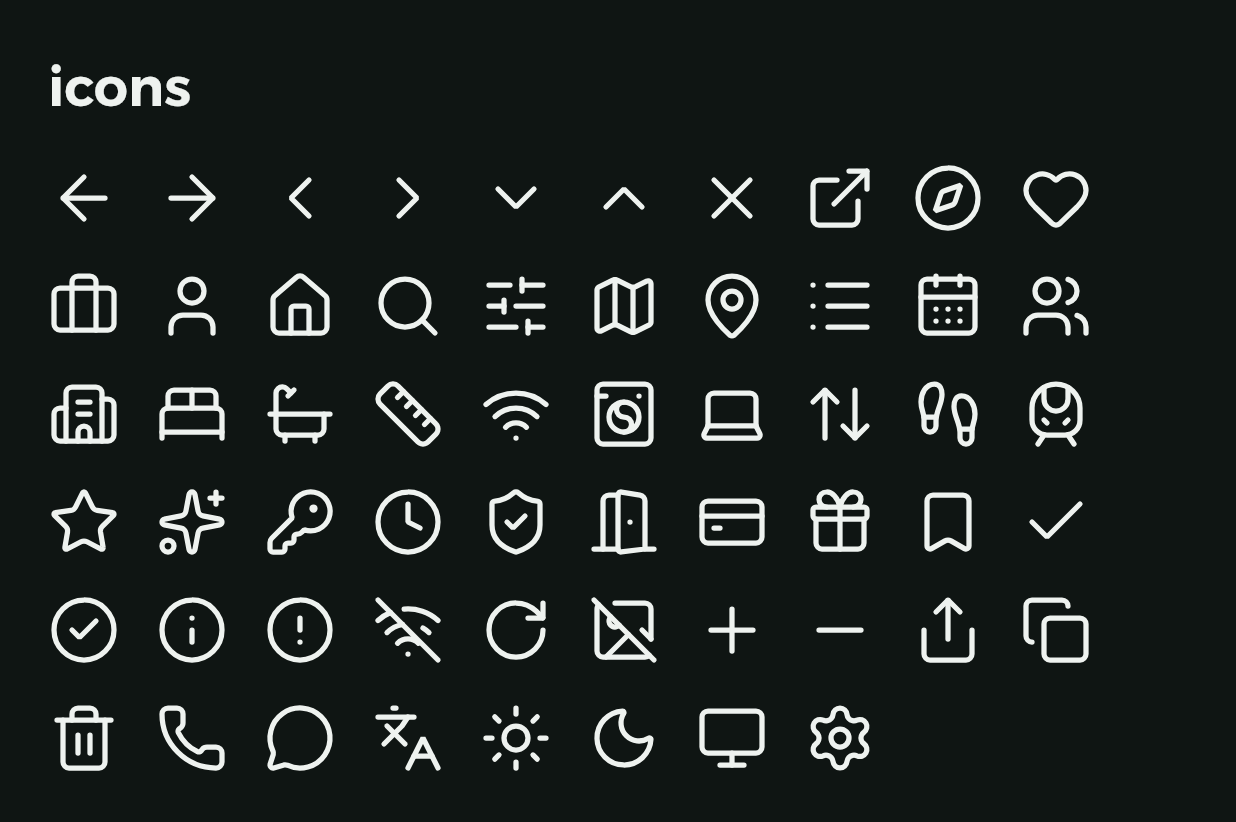
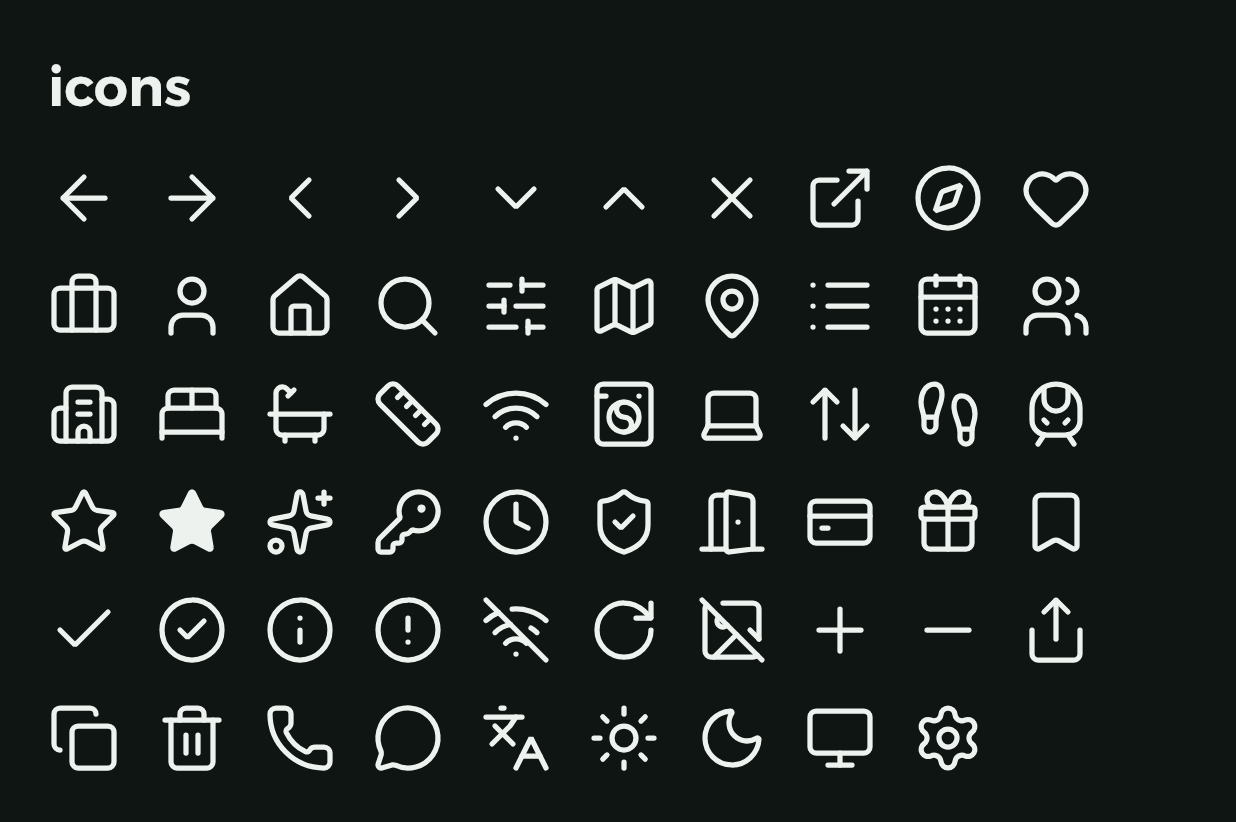
feat(designsystem): add SojournRating
Star, score and review count (Rating card): ★ 4.8 (32). Renders nothing for a missing rating or
fewer than three reviews (N-04); read aloud as one phrase, "Rated 4.8 out of 5, 32 reviews", from a
plural resource with all six Arabic forms. Score and count come from SojournFormatter.rating/count.

Also:
- SojournIcon.StarFilled; lucide_to_vector.py generates filled variants; icon sheet baselines updated
- SojournIcon.all is lazy: an eager list built during class init held null for whichever icon was
  touched first (the Rating tests ran first and crashed the icon sheet)
- iOS screenshots compare with a 0.5 % tolerance: a new local simulator runtime changed text
  anti-aliasing on 0.07-0.15 % of pixels; Android stays exact (ADR 0010 note)
- detekt FunctionNaming exempts the KMP test source sets (androidHostTest, androidDeviceTest)
- SojournRatingBehaviourTest: hidden states and spoken label on the semantics tree
- Screenshot cases in commonTest: 24 Android + 12 iOS new baselines, all reviewed

diff --git a/core/designsystem/src/commonMain/kotlin/com/abulubad/sojourn/core/designsystem/icon/SojournIcon.kt b/core/designsystem/src/commonMain/kotlin/com/abulubad/sojourn/core/designsystem/icon/SojournIcon.kt
@@ -60,6 +60,7 @@ import com.abulubad.sojourn.core.designsystem.resources.ic_shield_check
 import com.abulubad.sojourn.core.designsystem.resources.ic_sliders_horizontal
 import com.abulubad.sojourn.core.designsystem.resources.ic_sparkles
 import com.abulubad.sojourn.core.designsystem.resources.ic_star
+import com.abulubad.sojourn.core.designsystem.resources.ic_star_filled
 import com.abulubad.sojourn.core.designsystem.resources.ic_sun
 import com.abulubad.sojourn.core.designsystem.resources.ic_train_front
 import com.abulubad.sojourn.core.designsystem.resources.ic_trash_2
@@ -117,6 +118,9 @@ sealed class SojournIcon(internal val resource: DrawableResource, val autoMirror
     data object Walk : SojournIcon(Res.drawable.ic_footprints)
     data object Transit : SojournIcon(Res.drawable.ic_train_front)
     data object Star : SojournIcon(Res.drawable.ic_star)
+
+    /** The rating star (Rating card): filled, tinted `accentInk`. */
+    data object StarFilled : SojournIcon(Res.drawable.ic_star_filled)
     data object Sparkles : SojournIcon(Res.drawable.ic_sparkles)
 
     // Policies and booking
@@ -152,17 +156,22 @@ sealed class SojournIcon(internal val resource: DrawableResource, val autoMirror
     data object Settings : SojournIcon(Res.drawable.ic_settings)
 
     companion object {
-        /** Every icon, for the showcase sheet and tests. */
-        val all: kotlin.collections.List<SojournIcon> = listOf(
-            Back, Forward, ChevronStart, ChevronEnd, ChevronDown, ChevronUp, Close, ExternalLink,
-            Explore, Saved, Bookings, Profile, Home,
-            Search, Filters, Map, MapPin, List, Calendar, Guests, City,
-            Bed, Bath, Size, Wifi, Washer, Workspace, Lift, Walk, Transit, Star, Sparkles,
-            Key, Clock, Deposit, DoorOpen, Payment, Rewards, Bookmark,
-            Check, CheckCircle, Info, Alert, Offline, Retry, ImageFailed,
-            Plus, Minus, Share, Copy, Delete, Phone, Message,
-            Language, ThemeLight, ThemeDark, ThemeSystem, Settings,
-        )
+        /**
+         * Every icon, for the showcase sheet and tests. Lazy on purpose: the nested objects extend this class, so an
+         * eager list built during class initialisation would hold `null` for whichever icon was touched first.
+         */
+        val all: kotlin.collections.List<SojournIcon> by lazy {
+            listOf(
+                Back, Forward, ChevronStart, ChevronEnd, ChevronDown, ChevronUp, Close, ExternalLink,
+                Explore, Saved, Bookings, Profile, Home,
+                Search, Filters, Map, MapPin, List, Calendar, Guests, City,
+                Bed, Bath, Size, Wifi, Washer, Workspace, Lift, Walk, Transit, Star, StarFilled, Sparkles,
+                Key, Clock, Deposit, DoorOpen, Payment, Rewards, Bookmark,
+                Check, CheckCircle, Info, Alert, Offline, Retry, ImageFailed,
+                Plus, Minus, Share, Copy, Delete, Phone, Message,
+                Language, ThemeLight, ThemeDark, ThemeSystem, Settings,
+            )
+        }
     }
 }
 

diff --git a/core/designsystem/src/commonMain/kotlin/com/abulubad/sojourn/core/designsystem/components/rating/SojournRating.kt b/core/designsystem/src/commonMain/kotlin/com/abulubad/sojourn/core/designsystem/components/rating/SojournRating.kt
@@ -1,0 +1,66 @@
+package com.abulubad.sojourn.core.designsystem.components.rating
+
+import androidx.compose.foundation.layout.Arrangement
+import androidx.compose.foundation.layout.Row
+import androidx.compose.foundation.text.BasicText
+import androidx.compose.runtime.Composable
+import androidx.compose.ui.Alignment
+import androidx.compose.ui.Modifier
+import androidx.compose.ui.semantics.clearAndSetSemantics
+import androidx.compose.ui.semantics.contentDescription
+import androidx.compose.ui.text.font.FontWeight
+import com.abulubad.sojourn.core.designsystem.icon.SojournIcon
+import com.abulubad.sojourn.core.designsystem.theme.SojournTheme
+import com.abulubad.sojourn.core.designsystem.tokens.SojournSpacing
+import com.abulubad.sojourn.core.localization.rememberSojournFormatter
+import com.abulubad.sojourn.core.localization.resources.Res
+import com.abulubad.sojourn.core.localization.resources.rating_count
+import com.abulubad.sojourn.core.localization.resources.rating_spoken
+import com.abulubad.sojourn.core.model.Rating
+import org.jetbrains.compose.resources.pluralStringResource
+import org.jetbrains.compose.resources.stringResource
+
+/**
+ * Star, score and review count (Rating card): ★ 4.8 (32).
+ *
+ * Renders **nothing** when [rating] is null or has fewer than three reviews (N-04): there is no empty, zero or "new"
+ * rating. Screen readers hear one phrase, "Rated 4.8 out of 5, 32 reviews". The score and count come from
+ * `SojournFormatter`, with Western digits in bidi isolates. [showCount] = false drops the count where the card is
+ * compact.
+ *
+ * ```
+ * SojournRating(stay.rating)
+ * ```
+ */
+@Composable
+fun SojournRating(
+    rating: Rating?,
+    modifier: Modifier = Modifier,
+    showCount: Boolean = true,
+) {
+    if (rating == null || !SojournRatingDefaults.isShown(rating)) return
+    val formatter = rememberSojournFormatter()
+    val score = formatter.rating(rating.score)
+    val count = formatter.count(rating.count)
+    val spoken = pluralStringResource(Res.plurals.rating_spoken, rating.count, score, count)
+    val textStyle = SojournTheme.type.bodySm
+    Row(
+        modifier = modifier.clearAndSetSemantics { contentDescription = spoken },
+        horizontalArrangement = Arrangement.spacedBy(SojournSpacing.space1),
+        verticalAlignment = Alignment.CenterVertically,
+    ) {
+        SojournIcon(
+            icon = SojournIcon.StarFilled,
+            contentDescription = null,
+            tint = SojournTheme.colors.accentInk,
+            size = SojournRatingDefaults.StarSize,
+        )
+        BasicText(score, style = textStyle.copy(color = SojournTheme.colors.ink, fontWeight = FontWeight.SemiBold))
+        if (showCount) {
+            BasicText(
+                stringResource(Res.string.rating_count, count),
+                style = textStyle.copy(color = SojournTheme.colors.inkMuted),
+            )
+        }
+    }
+}

diff --git a/core/designsystem/src/androidHostTest/kotlin/com/abulubad/sojourn/core/designsystem/components/rating/SojournRatingBehaviourTest.kt b/core/designsystem/src/androidHostTest/kotlin/com/abulubad/sojourn/core/designsystem/components/rating/SojournRatingBehaviourTest.kt
@@ -1,0 +1,61 @@
+package com.abulubad.sojourn.core.designsystem.components.rating
+
+import androidx.compose.foundation.layout.Box
+import androidx.compose.ui.Modifier
+import androidx.compose.ui.platform.testTag
+import androidx.compose.ui.test.assertContentDescriptionEquals
+import androidx.compose.ui.test.junit4.createComposeRule
+import androidx.compose.ui.test.onChildren
+import androidx.compose.ui.test.onNodeWithTag
+import com.abulubad.sojourn.core.designsystem.preview.SojournPreview
+import com.abulubad.sojourn.core.designsystem.preview.SojournVariants
+import com.abulubad.sojourn.core.localization.SojournFormatter.Companion.isolate
+import com.abulubad.sojourn.core.model.Rating
+import org.junit.Rule
+import org.junit.Test
+import org.junit.runner.RunWith
+import org.robolectric.RobolectricTestRunner
+import org.robolectric.annotation.Config
+
+/** N-04 and the spoken label, checked on the semantics tree rather than pixels. */
+@RunWith(RobolectricTestRunner::class)
+@Config(sdk = [36])
+class SojournRatingBehaviourTest {
+
+    @get:Rule
+    val composeRule = createComposeRule()
+
+    private fun render(rating: Rating?) = composeRule.setContent {
+        SojournPreview(SojournVariants.EnLight) {
+            Box(Modifier.testTag(HOST)) { SojournRating(rating) }
+        }
+    }
+
+    @Test
+    fun `fewer than three reviews renders nothing`() {
+        render(SojournRatingSamples.tooFewReviews)
+        composeRule.onNodeWithTag(HOST).onChildren().assertCountEquals(0)
+    }
+
+    @Test
+    fun `a missing rating renders nothing`() {
+        render(null)
+        composeRule.onNodeWithTag(HOST).onChildren().assertCountEquals(0)
+    }
+
+    @Test
+    fun `screen readers hear one phrase with score and count`() {
+        render(SojournRatingSamples.typical)
+        composeRule.onNodeWithTag(HOST).onChildren()[0]
+            .assertContentDescriptionEquals("Rated ${isolate("4.8")} out of 5, ${isolate("32")} reviews")
+    }
+
+    private companion object {
+        const val HOST = "host"
+    }
+}
+
+private fun androidx.compose.ui.test.SemanticsNodeInteractionCollection.assertCountEquals(expected: Int) {
+    val actual = fetchSemanticsNodes().size
+    check(actual == expected) { "Expected $expected rating nodes, found $actual" }
+}

diff --git a/core/testing/src/iosMain/kotlin/com/abulubad/sojourn/core/testing/IosSnapshots.kt b/core/testing/src/iosMain/kotlin/com/abulubad/sojourn/core/testing/IosSnapshots.kt
@@ -11,6 +11,7 @@ import androidx.compose.ui.unit.Density
 import com.abulubad.sojourn.core.designsystem.preview.SojournPreview
 import com.abulubad.sojourn.core.designsystem.preview.SojournVariants
 import com.github.takahirom.roborazzi.ExperimentalRoborazziApi
+import com.github.takahirom.roborazzi.RoborazziOptions
 import io.github.takahirom.roborazzi.captureRoboImage
 
 /** The iOS virtual device: the same 412 × 915 dp at 3× as the Android screenshots, so images line up. */
@@ -18,6 +19,14 @@ private const val DEVICE_DENSITY = 3f
 private const val DEVICE_WIDTH_DP = 412f
 private const val DEVICE_HEIGHT_DP = 915f
 private const val SNAPSHOT_TAG = "sojourn-snapshot"
+
+/**
+ * iOS compares with a 0.5 % pixel tolerance; Android stays exact. Text and icon edges anti-alias slightly differently
+ * across simulator devices and runtimes (measured: 0.07–0.15 % of pixels, alpha unchanged, after a new iOS 27.2
+ * simulator runtime appeared locally). Roborazzi's iOS documentation uses the same mechanism (its example: 1 %).
+ * A changed glyph, colour or layout moves far more pixels than this.
+ */
+private const val IOS_CHANGE_THRESHOLD = 0.005f
 
 /**
  * The iOS screenshot runner (ADR 0010). A module declares one test in `iosTest`:
@@ -49,7 +58,13 @@ fun verifySnapshots(cases: List<SnapshotCase>) {
                             SojournPreview(variant) { case.content() }
                         }
                     }
-                    onNodeWithTag(SNAPSHOT_TAG).captureRoboImage(this, filePath = fileName)
+                    onNodeWithTag(SNAPSHOT_TAG).captureRoboImage(
+                        this,
+                        filePath = fileName,
+                        roborazziOptions = RoborazziOptions(
+                            compareOptions = RoborazziOptions.CompareOptions(changeThreshold = IOS_CHANGE_THRESHOLD),
+                        ),
+                    )
                 }
             } catch (e: AssertionError) {
                 failures += "$fileName: ${e.message}"

diff --git a/core/designsystem/src/commonTest/kotlin/com/abulubad/sojourn/core/designsystem/components/rating/SojournRatingSnapshots.kt b/core/designsystem/src/commonTest/kotlin/com/abulubad/sojourn/core/designsystem/components/rating/SojournRatingSnapshots.kt
@@ -1,0 +1,22 @@
+package com.abulubad.sojourn.core.designsystem.components.rating
+
+import androidx.compose.foundation.layout.padding
+import androidx.compose.ui.Modifier
+import com.abulubad.sojourn.core.designsystem.tokens.SojournSpacing
+import com.abulubad.sojourn.core.testing.SnapshotCase
+
+/**
+ * The Rating card's states. The typical rating is the default state and runs the full matrix on Android. The hidden
+ * state (fewer than three reviews) has no image; `SojournRatingBehaviourTest` asserts it renders nothing.
+ */
+val ratingSnapshots: List<SnapshotCase> = listOf(
+    SnapshotCase("rating_typical", fullMatrix = true) {
+        SojournRating(SojournRatingSamples.typical, Modifier.padding(SojournSpacing.space4))
+    },
+    SnapshotCase("rating_large_count") {
+        SojournRating(SojournRatingSamples.perfect, Modifier.padding(SojournSpacing.space4))
+    },
+    SnapshotCase("rating_without_count") {
+        SojournRating(SojournRatingSamples.typical, Modifier.padding(SojournSpacing.space4), showCount = false)
+    },
+)

diff --git a/core/localization/src/commonMain/kotlin/com/abulubad/sojourn/core/localization/SojournFormatter.kt b/core/localization/src/commonMain/kotlin/com/abulubad/sojourn/core/localization/SojournFormatter.kt
@@ -37,6 +37,12 @@ class SojournFormatter(private val locale: AppLocale) {
         return money(Money(rounded, total.currency))
     }
 
+    /** A guest rating on the five-point scale with one decimal: `4.8`, `5.0`. Isolated. */
+    fun rating(score: Double): String {
+        val tenths = kotlin.math.round(score * TENTHS).toInt()
+        return isolate("${tenths / TENTHS_INT}.${tenths % TENTHS_INT}")
+    }
+
     /** `1,383` — grouped, isolated. For counts inserted into sentences via plural resources. */
     fun count(value: Int): String = isolate(group(value.toLong()))
 
@@ -138,6 +144,8 @@ class SojournFormatter(private val locale: AppLocale) {
         private const val EN_DASH_SPACED = "– "
         private const val GROUP_SIZE = 3
         private const val HALF = 0.5
+        private const val TENTHS = 10.0
+        private const val TENTHS_INT = 10
 
         /** Wraps [text] in a bidi isolate (S-04). */
         fun isolate(text: String): String = "$FSI$text$PDI"

diff --git a/core/designsystem/src/commonMain/kotlin/com/abulubad/sojourn/core/designsystem/components/rating/SojournRatingPreviews.kt b/core/designsystem/src/commonMain/kotlin/com/abulubad/sojourn/core/designsystem/components/rating/SojournRatingPreviews.kt
@@ -1,0 +1,21 @@
+package com.abulubad.sojourn.core.designsystem.components.rating
+
+import androidx.compose.foundation.layout.padding
+import androidx.compose.runtime.Composable
+import androidx.compose.ui.Modifier
+import androidx.compose.ui.tooling.preview.Preview
+import com.abulubad.sojourn.core.designsystem.preview.SojournPreview
+import com.abulubad.sojourn.core.designsystem.preview.SojournVariants
+import com.abulubad.sojourn.core.designsystem.tokens.SojournSpacing
+
+@Preview
+@Composable
+fun SojournRatingPreview() = SojournPreview(SojournVariants.EnLight) {
+    SojournRating(SojournRatingSamples.typical, Modifier.padding(SojournSpacing.space4))
+}
+
+@Preview
+@Composable
+fun SojournRatingCompactArabicPreview() = SojournPreview(SojournVariants.ArDark) {
+    SojournRating(SojournRatingSamples.typical, Modifier.padding(SojournSpacing.space4), showCount = false)
+}

diff --git a/core/designsystem/src/commonMain/kotlin/com/abulubad/sojourn/core/designsystem/components/rating/SojournRatingDefaults.kt b/core/designsystem/src/commonMain/kotlin/com/abulubad/sojourn/core/designsystem/components/rating/SojournRatingDefaults.kt
@@ -1,0 +1,18 @@
+package com.abulubad.sojourn.core.designsystem.components.rating
+
+import androidx.compose.ui.unit.Dp
+import androidx.compose.ui.unit.dp
+import com.abulubad.sojourn.core.model.Rating
+
+/** Values the Rating card fixes that are not design tokens. */
+object SojournRatingDefaults {
+
+    /** Fewer reviews than this and the rating is hidden (N-04). */
+    const val MINIMUM_REVIEWS: Int = 3
+
+    /** The star is 14 dp in the Rating card, smaller than the `icon-sm` token, so that it sits inside body-sm text. */
+    val StarSize: Dp = 14.dp
+
+    /** Whether a rating is shown at all (N-04). */
+    fun isShown(rating: Rating): Boolean = rating.count >= MINIMUM_REVIEWS
+}

diff --git a/core/designsystem/src/commonTest/kotlin/com/abulubad/sojourn/core/designsystem/DesignSystemSnapshots.kt b/core/designsystem/src/commonTest/kotlin/com/abulubad/sojourn/core/designsystem/DesignSystemSnapshots.kt
@@ -1,6 +1,7 @@
 package com.abulubad.sojourn.core.designsystem
 
 import com.abulubad.sojourn.core.designsystem.components.price.priceSnapshots
+import com.abulubad.sojourn.core.designsystem.components.rating.ratingSnapshots
 import com.abulubad.sojourn.core.designsystem.showcase.tokenSheetSnapshots
 import com.abulubad.sojourn.core.testing.SnapshotCase
 
@@ -10,4 +11,5 @@ import com.abulubad.sojourn.core.testing.SnapshotCase
  */
 val designSystemSnapshots: List<SnapshotCase> =
     tokenSheetSnapshots +
-        priceSnapshots
+        priceSnapshots +
+        ratingSnapshots

diff --git a/core/localization/src/commonTest/kotlin/com/abulubad/sojourn/core/localization/SojournFormatterTest.kt b/core/localization/src/commonTest/kotlin/com/abulubad/sojourn/core/localization/SojournFormatterTest.kt
@@ -24,6 +24,13 @@ class SojournFormatterTest {
     }
 
     @Test
+    fun `ratings show one decimal in western digits`() {
+        assertEquals("${FSI}4.8$PDI", en.rating(4.8))
+        assertEquals("${FSI}5.0$PDI", ar.rating(5.0))
+        assertEquals("${FSI}4.7$PDI", en.rating(4.66))
+    }
+
+    @Test
     fun `averages round half up to whole units`() {
         assertEquals("$FSI£92$PDI", en.moneyAverage(Money.of(1383, Currency.GBP), 15))
         assertEquals("${FSI}93 £$PDI", ar.moneyAverage(Money.of(1395, Currency.GBP), 15))

diff --git a/core/designsystem/src/commonMain/kotlin/com/abulubad/sojourn/core/designsystem/components/rating/SojournRatingSamples.kt b/core/designsystem/src/commonMain/kotlin/com/abulubad/sojourn/core/designsystem/components/rating/SojournRatingSamples.kt
@@ -1,0 +1,10 @@
+package com.abulubad.sojourn.core.designsystem.components.rating
+
+import com.abulubad.sojourn.core.model.Rating
+
+/** The Rating card's sample, plus the edge cases. */
+object SojournRatingSamples {
+    val typical = Rating(score = 4.8, count = 32)
+    val perfect = Rating(score = 5.0, count = 1_204)
+    val tooFewReviews = Rating(score = 5.0, count = 2)
+}

diff --git a/tooling/scripts/lucide_to_vector.py b/tooling/scripts/lucide_to_vector.py
@@ -23,6 +23,9 @@ from pathlib import Path
 STROKE_WIDTH = "1.75"
 SVG_NS = "{http://www.w3.org/2000/svg}"
 
+# Icons that also ship a filled variant (`ic_<name>_filled`): the rating star, later the saved heart.
+FILLED = ["star"]
+
 # Lucide name → drawable name (ic_<name> with underscores). One icon per meaning.
 ICONS = [
     "arrow-left", "arrow-right", "chevron-left", "chevron-right", "chevron-down", "chevron-up", "x", "search",
@@ -101,7 +104,7 @@ def element_to_path(element: ET.Element) -> str | None:
     raise SystemExit(f"Unsupported SVG element <{tag}>")
 
 
-def convert(svg_file: Path) -> str:
+def convert(svg_file: Path, filled: bool = False) -> str:
     root = ET.parse(svg_file).getroot()
     view_box = root.attrib.get("viewBox", "0 0 24 24").split()
     paths = []
@@ -115,18 +118,20 @@ def convert(svg_file: Path) -> str:
         raise SystemExit(f"{svg_file.name}: no drawable elements")
     lines = [
         '<?xml version="1.0" encoding="utf-8"?>',
-        f"<!-- Generated from Lucide '{svg_file.stem}' by tooling/scripts/lucide_to_vector.py. Do not edit. -->",
+        f"<!-- Generated from Lucide '{svg_file.stem}'{' (filled)' if filled else ''} by "
+        "tooling/scripts/lucide_to_vector.py. Do not edit. -->",
         '<vector xmlns:android="http://schemas.android.com/apk/res/android"',
         '    android:width="24dp"',
         '    android:height="24dp"',
         f'    android:viewportWidth="{view_box[2]}"',
         f'    android:viewportHeight="{view_box[3]}">',
     ]
+    fill = "#FF000000" if filled else "#00000000"
     for data in paths:
         lines += [
             "    <path",
             f'        android:pathData="{data}"',
-            '        android:fillColor="#00000000"',
+            f'        android:fillColor="{fill}"',
             '        android:strokeColor="#FF000000"',
             f'        android:strokeWidth="{STROKE_WIDTH}"',
             '        android:strokeLineCap="round"',
@@ -147,7 +152,10 @@ def main(argv: list[str]) -> None:
         if not svg.exists():
             raise SystemExit(f"Missing Lucide icon: {svg}")
         (target / f"ic_{name.replace('-', '_')}.xml").write_text(convert(svg), encoding="utf-8")
-    print(f"Converted {len(ICONS)} icons into {target}")
+    for name in FILLED:
+        svg = source / f"{name}.svg"
+        (target / f"ic_{name.replace('-', '_')}_filled.xml").write_text(convert(svg, filled=True), encoding="utf-8")
+    print(f"Converted {len(ICONS)} icons and {len(FILLED)} filled variants into {target}")
 
 
 if __name__ == "__main__":
